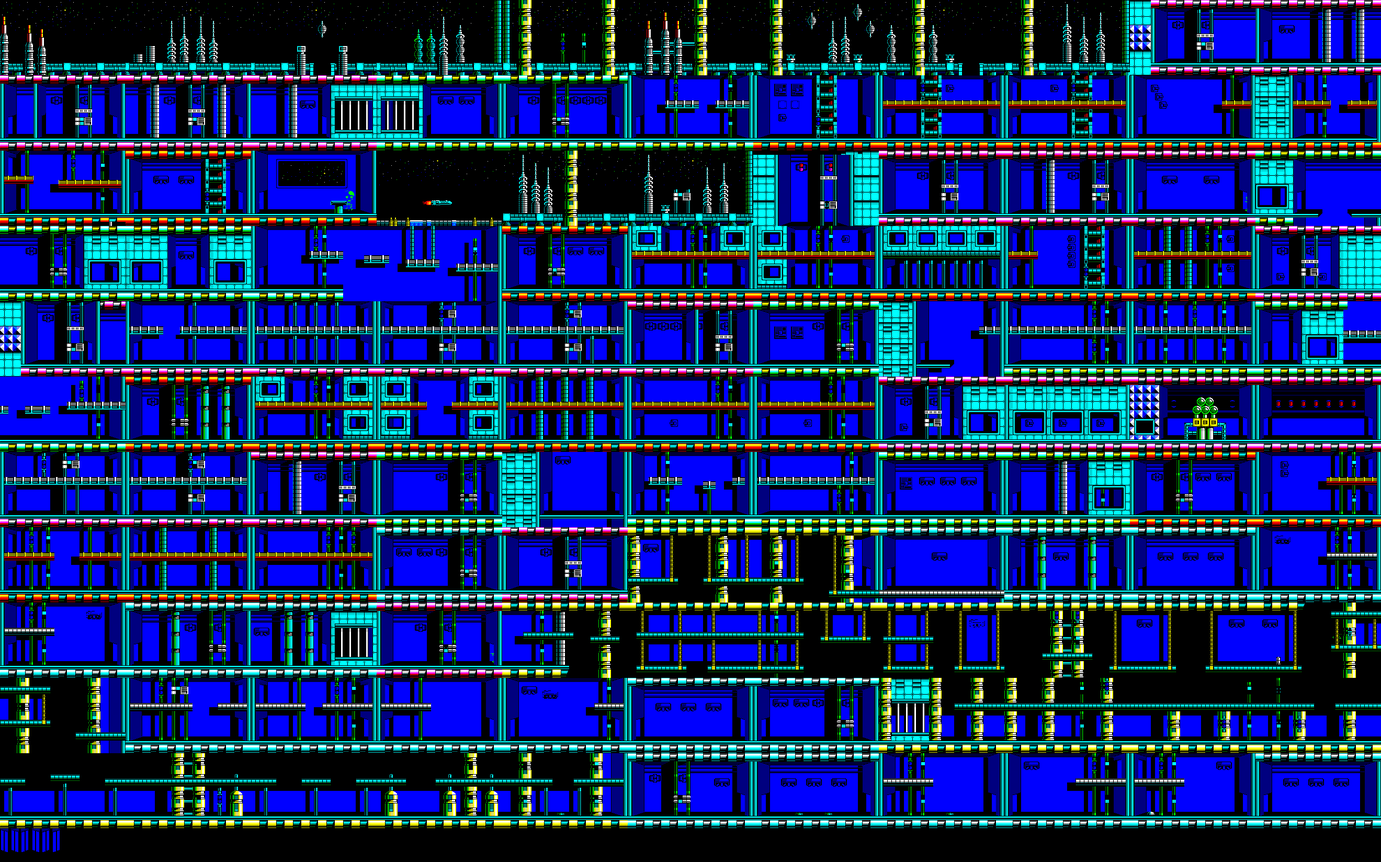
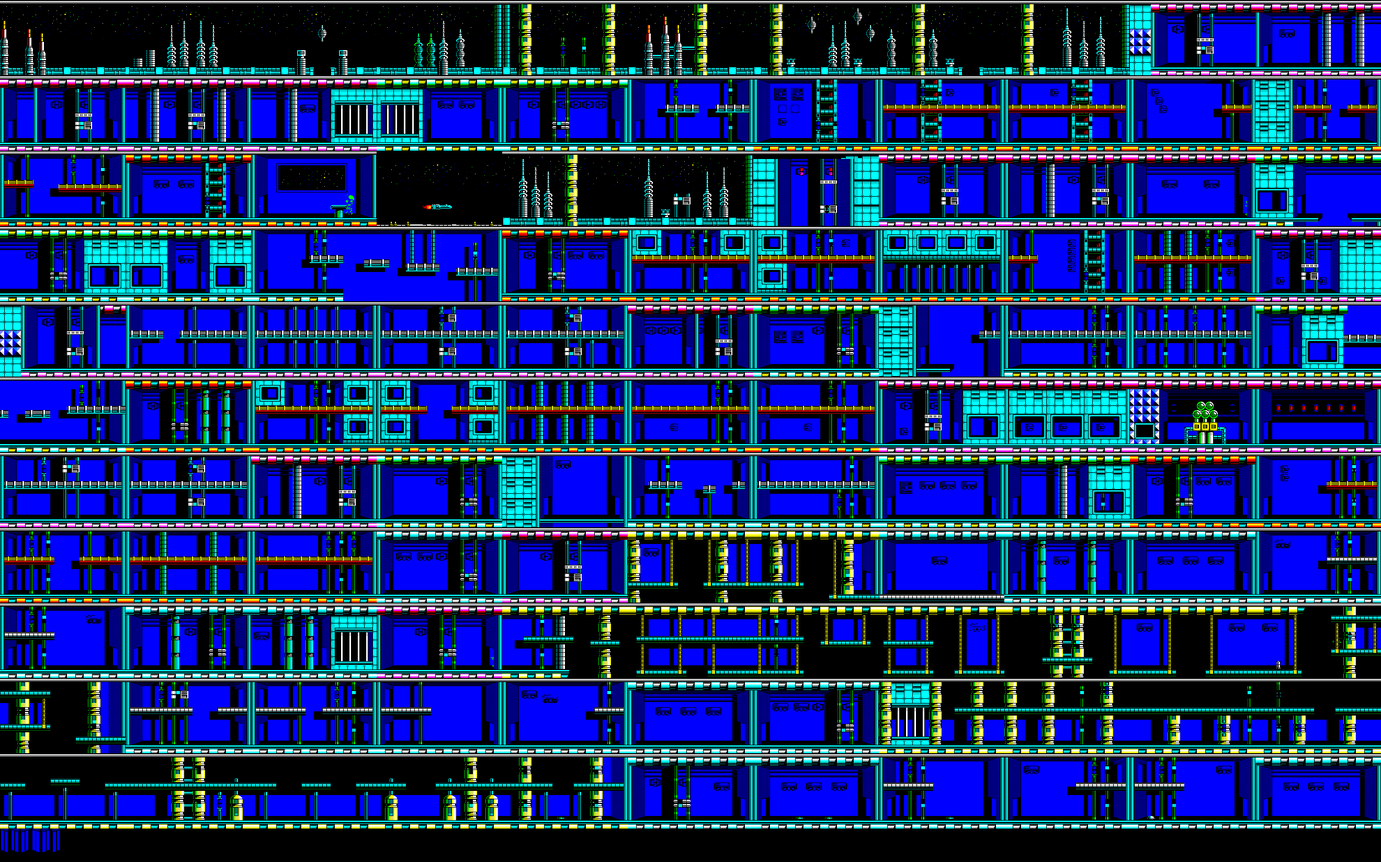
Everyone up on the floor course; guards take the lifts and come in properly
The backdrops are cut from the original's rows 0-17, not 1-18, so its
floor courses meet the level's floors: Dan, the guards and the guns stand
on the black course above the floor line, as in the original, instead of
a row below it. The guns' boxes follow.

Some guards use the grav-lifts: on another floor of Dan's room, one heads
for a lift on his own floor that stops at Dan's and rides it; giving chase
when Dan rides out, he follows him onto the lift and arrives behind him in
the next room. An arriving guard now comes fully in and a cell clear of
the wall before he can take aim, rather than firing from the doorway.

Claude-Session: https://claude.ai/code/session_01PcLjzQEJdDPtSgQwu11ALc

Changed region(s): [[0.0, 0.0, 1.0, 0.9593], [0.7144, 0.0, 0.7765, 0.0309]]

diff --git a/js/rooms_sheet.js b/js/rooms_sheet.js
@@ -1,2 +1,2 @@
 // generated by tools/make_rooms.py: where each room's backdrop lies in assets/rooms.png
-window.ROOMS_SHEET = {"image": "assets/rooms.png", "w": 240, "h": 144, "rooms": {"14": [0, 0], "15": [240, 0], "16": [480, 0], "17": [720, 0], "24": [960, 0], "25": [1200, 0], "26": [1440, 0], "27": [1680, 0], "28": [1920, 0], "46": [2160, 0], "47": [2400, 0], "48": [0, 144], "49": [240, 144], "50": [480, 144], "53": [720, 144], "54": [960, 144], "55": [1200, 144], "56": [1440, 144], "57": [1680, 144], "58": [1920, 144], "59": [2160, 144], "60": [2400, 144], "61": [0, 288], "62": [240, 288], "63": [480, 288], "75": [720, 288], "76": [960, 288], "77": [1200, 288], "78": [1440, 288], "81": [1680, 288], "83": [1920, 288], "84": [2160, 288], "85": [2400, 288], "86": [0, 432], "87": [240, 432], "88": [480, 432], "89": [720, 432], "90": [960, 432], "91": [1200, 432], "92": [1440, 432], "93": [1680, 432], "94": [1920, 432], "95": [2160, 432], "109": [2400, 432], "110": [0, 576], "111": [240, 576], "112": [480, 576], "113": [720, 576], "114": [960, 576], "115": [1200, 576], "116": [1440, 576], "117": [1680, 576], "118": [1920, 576], "119": [2160, 576], "120": [2400, 576], "121": [0, 720], "122": [240, 720], "123": [480, 720], "124": [720, 720], "125": [960, 720], "126": [1200, 720], "127": [1440, 720], "141": [1680, 720], "142": [1920, 720], "143": [2160, 720], "144": [2400, 720], "145": [0, 864], "146": [240, 864], "147": [480, 864], "148": [720, 864], "149": [960, 864], "150": [1200, 864], "151": [1440, 864], "152": [1680, 864], "153": [1920, 864], "154": [2160, 864], "155": [2400, 864], "156": [0, 1008], "157": [240, 1008], "158": [480, 1008], "159": [720, 1008], "177": [960, 1008], "184": [1200, 1008], "185": [1440, 1008], "186": [1680, 1008], "187": [1920, 1008], "188": [2160, 1008], "189": [2400, 1008], "190": [0, 1152], "191": [240, 1152], "192": [480, 1152], "209": [720, 1152], "210": [960, 1152], "211": [1200, 1152], "212": [1440, 1152], "213": [1680, 1152], "214": [1920, 1152], "215": [2160, 1152], "216": [2400, 1152], "217": [0, 1296], "218": [240, 1296], "219": [480, 1296], "220": [720, 1296], "221": [960, 1296], "222": [1200, 1296], "223": [1440, 1296], "241": [1680, 1296], "242": [1920, 1296], "243": [2160, 1296], "244": [2400, 1296], "245": [0, 1440], "246": [240, 1440], "247": [480, 1440], "248": [720, 1440], "249": [960, 1440], "250": [1200, 1440], "251": [1440, 1440], "252": [1680, 1440], "253": [1920, 1440], "254": [2160, 1440], "255": [2400, 1440]}, "doors": {"84:right": [0, 1584, 16, 48, 208, 72], "209:right": [20, 1584, 16, 48, 208, 72], "159:left": [40, 1584, 16, 48, 16, 72], "185:right": [60, 1584, 16, 48, 216, 72], "143:left": [80, 1584, 16, 48, 0, 72], "142:left": [100, 1584, 16, 48, 0, 72]}, "guns": {"47": [[0, 40, 48, 40, "#0000ff"]], "50": [[0, 88, 48, 40, "#000000"]], "53": [[0, 112, 40, 40, "#0000ff"], [0, 152, 40, 40, "#0000ff"]], "56": [[2, 48, 72, 16, "#0000ff"]], "57": [[2, 128, 16, 16, "#0000ff"]], "58": [[2, 88, 16, 16, "#0000ff"]], "59": [[2, 40, 16, 16, "#0000ff"], [2, 48, 32, 16, "#0000ff"], [2, 56, 48, 16, "#0000ff"]], "62": [[0, 96, 48, 40, "#0000ff"], [0, 48, 48, 40, "#0000ff"]], "84": [[0, 56, 48, 40, "#0000ff"], [0, 136, 48, 40, "#0000ff"]], "87": [[0, 96, 48, 40, "#000000"]], "90": [[0, 120, 40, 40, "#000000"], [0, 160, 40, 40, "#0000ff"]], "92": [[1, 168, 16, 16, "#0000ff"], [1, 168, 80, 16, "#0000ff"]], "94": [[1, 120, 16, 16, "#0000ff"], [1, 120, 32, 16, "#0000ff"], [1, 120, 48, 16, "#0000ff"], [1, 120, 64, 16, "#0000ff"]], "95": [[1, 184, 16, 16, "#0000ff"], [1, 184, 72, 16, "#0000ff"]], "109": [[2, 40, 88, 16, "#0000ff"], [1, 120, 88, 16, "#000000"]], "118": [[3, 40, 112, 16, null]], "121": [[3, 104, 112, 16, null]], "126": [[1, 80, 80, 16, "#0000ff"]], "127": [[1, 96, 80, 16, "#0000ff"]], "141": [[2, 40, 88, 16, "#0000ff"]], "142": [[2, 40, 80, 16, "#0000ff"], [2, 104, 80, 16, "#0000ff"], [2, 176, 80, 16, "#0000ff"]], "149": [[0, 96, 8, 40, "#000000"]], "151": [[3, 40, 112, 16, null]], "152": [[0, 72, 48, 40, "#0000ff"], [0, 112, 48, 40, "#0000ff"], [0, 152, 48, 40, "#0000ff"], [3, 80, 112, 16, null], [3, 160, 112, 16, null]], "153": [[3, 72, 112, 16, null]], "154": [[0, 120, 40, 40, "#000000"], [0, 160, 40, 40, "#0000ff"]], "155": [[2, 48, 16, 16, "#0000ff"], [2, 48, 32, 16, "#0000ff"]], "156": [[3, 120, 112, 16, null]], "157": [[1, 112, 16, 16, "#0000ff"], [3, 112, 112, 16, null]], "158": [[2, 80, 16, 16, "#0000ff"], [3, 80, 112, 16, null]], "159": [[0, 72, 40, 40, "#0000ff"], [0, 32, 40, 40, "#000000"]], "184": [[0, 24, 32, 40, "#ffff00"]], "186": [[0, 96, 48, 40, "#0000ff"], [3, 72, 112, 16, null], [3, 144, 112, 16, null]], "187": [[0, 88, 48, 40, "#0000ff"]], "188": [[0, 48, 48, 40, "#0000ff"], [0, 96, 48, 40, "#0000ff"], [0, 144, 48, 40, "#0000ff"], [3, 64, 112, 16, null], [3, 152, 112, 16, null]], "189": [[0, 32, 16, 40, "#000000"], [3, 96, 112, 16, null]], "190": [[0, 160, 16, 40, "#0000ff"], [3, 128, 112, 16, null]], "192": [[0, 0, 48, 40, "#000000"]], "215": [[0, 8, 32, 40, "#0000ff"], [0, 184, 32, 40, "#0000ff"]], "216": [[0, 8, 32, 40, "#0000ff"]], "221": [[0, 32, 16, 40, "#000000"], [0, 72, 24, 40, "#0000ff"]], "222": [[0, 48, 48, 40, "#0000ff"], [0, 96, 48, 40, "#0000ff"], [0, 144, 48, 40, "#0000ff"]], "223": [[0, 72, 40, 40, "#0000ff"], [0, 32, 40, 40, "#000000"]], "241": [[3, 144, 112, 16, null]], "242": [[3, 40, 112, 16, null]], "244": [[3, 120, 112, 16, null]], "250": [[0, 160, 48, 40, "#0000ff"]], "251": [[0, 48, 48, 40, "#0000ff"], [0, 96, 48, 40, "#0000ff"], [0, 144, 48, 40, "#0000ff"]], "253": [[0, 32, 16, 40, "#000000"], [3, 96, 112, 16, null]], "254": [[0, 160, 16, 40, "#0000ff"], [3, 128, 112, 16, null]], "255": [[0, 48, 48, 40, "#0000ff"], [0, 96, 48, 40, "#0000ff"], [0, 144, 48, 40, "#0000ff"]]}, "arrows": {"24": [[152, 88, "down", 5]], "46": [[136, 88, "down", 5]], "49": [[128, 88, "down", 5]], "54": [[104, 88, "down", 5]], "55": [[192, 24, "down", 5], [192, 80, "up", 69]], "56": [[152, 80, "up", 69]], "57": [[112, 24, "down", 5], [112, 80, "up", 69]], "58": [[160, 24, "down", 5], [160, 80, "up", 69]], "60": [[128, 24, "down", 5], [128, 80, "up", 69]], "61": [[192, 32, "down", 5], [192, 80, "up", 69]], "62": [[184, 88, "down", 5]], "77": [[96, 88, "down", 5]], "78": [[136, 96, "up", 69], [136, 104, "down", 5]], "81": [[128, 80, "up", 69], [128, 88, "down", 5]], "83": [[176, 88, "down", 5]], "86": [[104, 80, "up", 69]], "88": [[136, 24, "down", 5], [136, 80, "up", 69]], "89": [[184, 48, "down", 5]], "90": [[96, 88, "down", 5]], "91": [[144, 24, "down", 5], [144, 80, "up", 69]], "92": [[144, 24, "down", 5], [144, 80, "up", 69]], "94": [[184, 80, "up", 69]], "95": [[168, 24, "down", 5], [168, 80, "up", 69]], "109": [[96, 80, "up", 69], [96, 88, "down", 5]], "110": [[136, 80, "up", 69]], "113": [[128, 16, "up", 69], [128, 24, "down", 5], [128, 80, "up", 69]], "114": [[128, 24, "down", 5], [128, 80, "up", 69]], "115": [[176, 80, "up", 69], [176, 88, "down", 5]], "116": [[168, 88, "down", 5]], "118": [[192, 24, "down", 5], [192, 80, "up", 69]], "119": [[64, 24, "down", 5], [176, 24, "down", 5], [64, 80, "up", 69], [176, 80, "up", 69]], "121": [[184, 16, "up", 69], [184, 24, "down", 5], [184, 80, "up", 69]], "122": [[96, 80, "up", 69], [96, 88, "down", 5]], "123": [[144, 24, "down", 5], [144, 80, "up", 69]], "126": [[192, 24, "down", 5], [192, 80, "up", 69]], "127": [[168, 16, "up", 69], [168, 24, "down", 5], [168, 80, "up", 69]], "141": [[96, 80, "up", 69]], "145": [[128, 24, "down", 5]], "146": [[128, 24, "down", 5], [128, 80, "up", 69]], "147": [[176, 80, "up", 69]], "148": [[168, 80, "up", 69]], "150": [[72, 24, "down", 5], [72, 80, "up", 69]], "151": [[184, 24, "down", 5], [184, 80, "up", 69]], "153": [[184, 80, "up", 69]], "154": [[96, 80, "up", 69]], "155": [[184, 24, "down", 5], [184, 80, "up", 69]], "156": [[88, 24, "down", 5], [88, 80, "up", 69]], "158": [[168, 24, "down", 5], [168, 80, "up", 69]], "159": [[168, 88, "down", 5]], "177": [[128, 80, "up", 69], [128, 88, "down", 5]], "184": [[176, 72, "down", 5]], "185": [[40, 72, "down", 5], [176, 88, "down", 5]], "189": [[176, 24, "down", 5], [176, 80, "up", 69]], "190": [[80, 24, "down", 5], [80, 80, "up", 69]], "191": [[168, 80, "up", 69], [168, 88, "down", 5]], "209": [[128, 80, "up", 69]], "210": [[72, 32, "down", 5], [72, 80, "up", 69]], "212": [[40, 32, "down", 5], [40, 80, "up", 69], [40, 88, "down", 5]], "214": [[136, 72, "down", 5]], "216": [[176, 48, "up", 69], [176, 56, "down", 5]], "217": [[40, 48, "up", 69], [40, 56, "down", 5], [176, 80, "down", 5]], "218": [[96, 24, "down", 5]], "219": [[192, 24, "down", 5], [192, 80, "up", 69]], "221": [[200, 24, "down", 5], [200, 80, "up", 69]], "223": [[168, 80, "up", 69]], "242": [[144, 24, "down", 5], [144, 80, "up", 69]], "243": [[224, 24, "down", 5], [224, 80, "up", 69]], "244": [[40, 16, "up", 69], [40, 24, "down", 5], [40, 80, "up", 69]], "246": [[136, 16, "up", 69], [136, 24, "down", 5], [136, 80, "up", 69]], "248": [[176, 16, "up", 69], [176, 24, "down", 5], [176, 80, "up", 69]], "249": [[40, 16, "up", 69], [40, 24, "down", 5], [176, 24, "down", 5], [40, 80, "up", 69], [176, 80, "up", 69]], "250": [[96, 80, "up", 69]], "252": [[80, 24, "down", 5], [80, 80, "up", 69]], "253": [[192, 24, "down", 5], [192, 80, "up", 69]], "254": [[80, 24, "down", 5], [80, 80, "up", 69]]}, "arrow": [0, 127, 65, 65, 99, 119, 127, 0]};
+window.ROOMS_SHEET = {"image": "assets/rooms.png", "w": 240, "h": 144, "rooms": {"14": [0, 0], "15": [240, 0], "16": [480, 0], "17": [720, 0], "24": [960, 0], "25": [1200, 0], "26": [1440, 0], "27": [1680, 0], "28": [1920, 0], "46": [2160, 0], "47": [2400, 0], "48": [0, 144], "49": [240, 144], "50": [480, 144], "53": [720, 144], "54": [960, 144], "55": [1200, 144], "56": [1440, 144], "57": [1680, 144], "58": [1920, 144], "59": [2160, 144], "60": [2400, 144], "61": [0, 288], "62": [240, 288], "63": [480, 288], "75": [720, 288], "76": [960, 288], "77": [1200, 288], "78": [1440, 288], "81": [1680, 288], "83": [1920, 288], "84": [2160, 288], "85": [2400, 288], "86": [0, 432], "87": [240, 432], "88": [480, 432], "89": [720, 432], "90": [960, 432], "91": [1200, 432], "92": [1440, 432], "93": [1680, 432], "94": [1920, 432], "95": [2160, 432], "109": [2400, 432], "110": [0, 576], "111": [240, 576], "112": [480, 576], "113": [720, 576], "114": [960, 576], "115": [1200, 576], "116": [1440, 576], "117": [1680, 576], "118": [1920, 576], "119": [2160, 576], "120": [2400, 576], "121": [0, 720], "122": [240, 720], "123": [480, 720], "124": [720, 720], "125": [960, 720], "126": [1200, 720], "127": [1440, 720], "141": [1680, 720], "142": [1920, 720], "143": [2160, 720], "144": [2400, 720], "145": [0, 864], "146": [240, 864], "147": [480, 864], "148": [720, 864], "149": [960, 864], "150": [1200, 864], "151": [1440, 864], "152": [1680, 864], "153": [1920, 864], "154": [2160, 864], "155": [2400, 864], "156": [0, 1008], "157": [240, 1008], "158": [480, 1008], "159": [720, 1008], "177": [960, 1008], "184": [1200, 1008], "185": [1440, 1008], "186": [1680, 1008], "187": [1920, 1008], "188": [2160, 1008], "189": [2400, 1008], "190": [0, 1152], "191": [240, 1152], "192": [480, 1152], "209": [720, 1152], "210": [960, 1152], "211": [1200, 1152], "212": [1440, 1152], "213": [1680, 1152], "214": [1920, 1152], "215": [2160, 1152], "216": [2400, 1152], "217": [0, 1296], "218": [240, 1296], "219": [480, 1296], "220": [720, 1296], "221": [960, 1296], "222": [1200, 1296], "223": [1440, 1296], "241": [1680, 1296], "242": [1920, 1296], "243": [2160, 1296], "244": [2400, 1296], "245": [0, 1440], "246": [240, 1440], "247": [480, 1440], "248": [720, 1440], "249": [960, 1440], "250": [1200, 1440], "251": [1440, 1440], "252": [1680, 1440], "253": [1920, 1440], "254": [2160, 1440], "255": [2400, 1440]}, "doors": {"84:right": [0, 1584, 16, 48, 208, 80], "209:right": [20, 1584, 16, 48, 208, 80], "159:left": [40, 1584, 16, 48, 16, 80], "185:right": [60, 1584, 16, 48, 216, 80], "143:left": [80, 1584, 16, 48, 0, 80], "142:left": [100, 1584, 16, 48, 0, 80]}, "guns": {"47": [[0, 40, 56, 40, "#0000ff"]], "50": [[0, 88, 56, 40, "#000000"]], "53": [[0, 112, 48, 40, "#0000ff"], [0, 152, 48, 40, "#0000ff"]], "56": [[2, 48, 80, 16, "#0000ff"]], "57": [[2, 128, 24, 16, "#0000ff"]], "58": [[2, 88, 24, 16, "#0000ff"]], "59": [[2, 40, 24, 16, "#0000ff"], [2, 48, 40, 16, "#0000ff"], [2, 56, 56, 16, "#0000ff"]], "62": [[0, 96, 56, 40, "#0000ff"], [0, 48, 56, 40, "#0000ff"]], "84": [[0, 56, 56, 40, "#0000ff"], [0, 136, 56, 40, "#0000ff"]], "87": [[0, 96, 56, 40, "#000000"]], "90": [[0, 120, 48, 40, "#000000"], [0, 160, 48, 40, "#0000ff"]], "92": [[1, 168, 24, 16, "#0000ff"], [1, 168, 88, 16, "#0000ff"]], "94": [[1, 120, 24, 16, "#0000ff"], [1, 120, 40, 16, "#0000ff"], [1, 120, 56, 16, "#0000ff"], [1, 120, 72, 16, "#0000ff"]], "95": [[1, 184, 24, 16, "#0000ff"], [1, 184, 80, 16, "#0000ff"]], "109": [[2, 40, 96, 16, "#0000ff"], [1, 120, 96, 16, "#000000"]], "118": [[3, 40, 120, 16, null]], "121": [[3, 104, 120, 16, null]], "126": [[1, 80, 88, 16, "#0000ff"]], "127": [[1, 96, 88, 16, "#0000ff"]], "141": [[2, 40, 96, 16, "#0000ff"]], "142": [[2, 40, 88, 16, "#0000ff"], [2, 104, 88, 16, "#0000ff"], [2, 176, 88, 16, "#0000ff"]], "149": [[0, 96, 16, 40, "#000000"]], "151": [[3, 40, 120, 16, null]], "152": [[0, 72, 56, 40, "#0000ff"], [0, 112, 56, 40, "#0000ff"], [0, 152, 56, 40, "#0000ff"], [3, 80, 120, 16, null], [3, 160, 120, 16, null]], "153": [[3, 72, 120, 16, null]], "154": [[0, 120, 48, 40, "#000000"], [0, 160, 48, 40, "#0000ff"]], "155": [[2, 48, 24, 16, "#0000ff"], [2, 48, 40, 16, "#0000ff"]], "156": [[3, 120, 120, 16, null]], "157": [[1, 112, 24, 16, "#0000ff"], [3, 112, 120, 16, null]], "158": [[2, 80, 24, 16, "#0000ff"], [3, 80, 120, 16, null]], "159": [[0, 72, 48, 40, "#0000ff"], [0, 32, 48, 40, "#000000"]], "184": [[0, 24, 40, 40, "#ffff00"]], "186": [[0, 96, 56, 40, "#0000ff"], [3, 72, 120, 16, null], [3, 144, 120, 16, null]], "187": [[0, 88, 56, 40, "#0000ff"]], "188": [[0, 48, 56, 40, "#0000ff"], [0, 96, 56, 40, "#0000ff"], [0, 144, 56, 40, "#0000ff"], [3, 64, 120, 16, null], [3, 152, 120, 16, null]], "189": [[0, 32, 24, 40, "#000000"], [3, 96, 120, 16, null]], "190": [[0, 160, 24, 40, "#0000ff"], [3, 128, 120, 16, null]], "192": [[0, 0, 56, 40, "#000000"]], "215": [[0, 8, 40, 40, "#0000ff"], [0, 184, 40, 40, "#0000ff"]], "216": [[0, 8, 40, 40, "#0000ff"]], "221": [[0, 32, 24, 40, "#000000"], [0, 72, 32, 40, "#0000ff"]], "222": [[0, 48, 56, 40, "#0000ff"], [0, 96, 56, 40, "#0000ff"], [0, 144, 56, 40, "#0000ff"]], "223": [[0, 72, 48, 40, "#0000ff"], [0, 32, 48, 40, "#000000"]], "241": [[3, 144, 120, 16, null]], "242": [[3, 40, 120, 16, null]], "244": [[3, 120, 120, 16, null]], "250": [[0, 160, 56, 40, "#0000ff"]], "251": [[0, 48, 56, 40, "#0000ff"], [0, 96, 56, 40, "#0000ff"], [0, 144, 56, 40, "#0000ff"]], "253": [[0, 32, 24, 40, "#000000"], [3, 96, 120, 16, null]], "254": [[0, 160, 24, 40, "#0000ff"], [3, 128, 120, 16, null]], "255": [[0, 48, 56, 40, "#0000ff"], [0, 96, 56, 40, "#0000ff"], [0, 144, 56, 40, "#0000ff"]]}, "arrows": {"24": [[152, 96, "down", 5]], "46": [[136, 96, "down", 5]], "49": [[128, 96, "down", 5]], "54": [[104, 96, "down", 5]], "55": [[192, 32, "down", 5], [192, 88, "up", 69]], "56": [[152, 88, "up", 69]], "57": [[112, 32, "down", 5], [112, 88, "up", 69]], "58": [[160, 32, "down", 5], [160, 88, "up", 69]], "60": [[128, 32, "down", 5], [128, 88, "up", 69]], "61": [[192, 40, "down", 5], [192, 88, "up", 69]], "62": [[184, 96, "down", 5]], "77": [[96, 96, "down", 5]], "78": [[136, 104, "up", 69], [136, 112, "down", 5]], "81": [[128, 88, "up", 69], [128, 96, "down", 5]], "83": [[176, 96, "down", 5]], "86": [[104, 88, "up", 69]], "88": [[136, 32, "down", 5], [136, 88, "up", 69]], "89": [[184, 56, "down", 5]], "90": [[96, 96, "down", 5]], "91": [[144, 32, "down", 5], [144, 88, "up", 69]], "92": [[144, 32, "down", 5], [144, 88, "up", 69]], "94": [[184, 88, "up", 69]], "95": [[168, 32, "down", 5], [168, 88, "up", 69]], "109": [[96, 88, "up", 69], [96, 96, "down", 5]], "110": [[136, 88, "up", 69]], "113": [[128, 24, "up", 69], [128, 32, "down", 5], [128, 88, "up", 69]], "114": [[128, 32, "down", 5], [128, 88, "up", 69]], "115": [[176, 88, "up", 69], [176, 96, "down", 5]], "116": [[168, 96, "down", 5]], "118": [[192, 32, "down", 5], [192, 88, "up", 69]], "119": [[64, 32, "down", 5], [176, 32, "down", 5], [64, 88, "up", 69], [176, 88, "up", 69]], "121": [[184, 24, "up", 69], [184, 32, "down", 5], [184, 88, "up", 69]], "122": [[96, 88, "up", 69], [96, 96, "down", 5]], "123": [[144, 32, "down", 5], [144, 88, "up", 69]], "126": [[192, 32, "down", 5], [192, 88, "up", 69]], "127": [[168, 24, "up", 69], [168, 32, "down", 5], [168, 88, "up", 69]], "141": [[96, 88, "up", 69]], "145": [[128, 32, "down", 5]], "146": [[128, 32, "down", 5], [128, 88, "up", 69]], "147": [[176, 88, "up", 69]], "148": [[168, 88, "up", 69]], "150": [[72, 32, "down", 5], [72, 88, "up", 69]], "151": [[184, 32, "down", 5], [184, 88, "up", 69]], "153": [[184, 88, "up", 69]], "154": [[96, 88, "up", 69]], "155": [[184, 32, "down", 5], [184, 88, "up", 69]], "156": [[88, 32, "down", 5], [88, 88, "up", 69]], "158": [[168, 32, "down", 5], [168, 88, "up", 69]], "159": [[168, 96, "down", 5]], "177": [[128, 88, "up", 69], [128, 96, "down", 5]], "184": [[176, 80, "down", 5]], "185": [[40, 80, "down", 5], [176, 96, "down", 5]], "189": [[176, 32, "down", 5], [176, 88, "up", 69]], "190": [[80, 32, "down", 5], [80, 88, "up", 69]], "191": [[168, 88, "up", 69], [168, 96, "down", 5]], "209": [[128, 88, "up", 69]], "210": [[72, 40, "down", 5], [72, 88, "up", 69]], "212": [[40, 40, "down", 5], [40, 88, "up", 69], [40, 96, "down", 5]], "214": [[136, 80, "down", 5]], "216": [[176, 56, "up", 69], [176, 64, "down", 5]], "217": [[40, 56, "up", 69], [40, 64, "down", 5], [176, 88, "down", 5]], "218": [[96, 32, "down", 5]], "219": [[192, 32, "down", 5], [192, 88, "up", 69]], "221": [[200, 32, "down", 5], [200, 88, "up", 69]], "223": [[168, 88, "up", 69]], "242": [[144, 32, "down", 5], [144, 88, "up", 69]], "243": [[224, 32, "down", 5], [224, 88, "up", 69]], "244": [[40, 24, "up", 69], [40, 32, "down", 5], [40, 88, "up", 69]], "246": [[136, 24, "up", 69], [136, 32, "down", 5], [136, 88, "up", 69]], "248": [[176, 24, "up", 69], [176, 32, "down", 5], [176, 88, "up", 69]], "249": [[40, 24, "up", 69], [40, 32, "down", 5], [176, 32, "down", 5], [40, 88, "up", 69], [176, 88, "up", 69]], "250": [[96, 88, "up", 69]], "252": [[80, 32, "down", 5], [80, 88, "up", 69]], "253": [[192, 32, "down", 5], [192, 88, "up", 69]], "254": [[80, 32, "down", 5], [80, 88, "up", 69]]}, "arrow": [0, 127, 65, 65, 99, 119, 127, 0]};

diff --git a/js/game.js b/js/game.js
@@ -190,6 +190,9 @@ const PRISONS = placePrisons();
  *  to a few cells and pauses before he fires. The fourth sector is unguarded,
  *  as in the original. */
 const TREEN_MAX = 2, TREEN_AGAIN = [1.5, 5];  // seconds before the next one runs in: soon enough to be met on the way through
+const TREEN_CLEAR = 8;           // pixels an arriving guard walks in from the wall before he takes aim
+const TREEN_LIFT_CHANCE = 0.6;   // the share of guards who take the grav-lifts after Dan
+const TREEN_CHASE = 3;           // seconds a guard counts as giving chase after he last had Dan in range
 const TREEN_RUN = 60, TREEN_REACT = 0.6;      // pixels a second; the pause before he fires
 function unguardedRoom(key, room) { return (room.label || room.zone) === 4; }
 // where none is about when Dan walks in, and they only run in after him:
@@ -209,7 +212,7 @@ function makeTreens(key, room) {
     const x = x0 + r() * (x1 - x0);
     if (Math.abs(x - dan.x) < 48 && Math.abs(p.y * 8 - TREEN_H - dan.y) < 24) continue;   // never on top of him
     if (out.some((t) => Math.abs(t.x - x) < 28 && Math.abs(t.y - (p.y * 8 - TREEN_H)) < 8)) continue;
-    out.push({ id: state.treenSeq++, x, y: p.y * 8 - TREEN_H, x0, x1, dir: r() < 0.5 ? -1 : 1, anim: 0, dead: false, react: 0 });
+    out.push({ id: state.treenSeq++, x, y: p.y * 8 - TREEN_H, x0, x1, dir: r() < 0.5 ? -1 : 1, anim: 0, dead: false, react: 0, lifts: r() < TREEN_LIFT_CHANCE });
   }
   return out;
 }
@@ -231,8 +234,54 @@ function spawnTreen(key, room) {
   if (!side) return;
   // he starts beyond the edge and runs in through the doorway, not from a cell inside it
   const x = side === "right" ? VIEW_W : -TREEN_W;
-  treens.push({ id: state.treenSeq++, x, y: p.y * 8 - TREEN_H, x0, x1, dir: dan.x > x ? 1 : -1, anim: 0, dead: false, react: 0, entering: true });
+  treens.push({ id: state.treenSeq++, x, y: p.y * 8 - TREEN_H, x0, x1, dir: dan.x > x ? 1 : -1, anim: 0, dead: false, react: 0, entering: true, lifts: Math.random() < TREEN_LIFT_CHANCE });
   if (!state.alerted.has(key)) { state.alerted.add(key); say(tx(["INTRUDER ALERT !"]), 2.5); }
+}
+
+/** A guard who uses the lifts: Dan on another floor of this room, and a lift
+ *  on the guard's floor that stops at Dan's, and he heads for it; Dan riding
+ *  out of the room while the guard is giving chase, and he follows him onto
+ *  it, to arrive behind him in the next room. */
+function treenSeeksLift(t, key, room) {
+  const feet = t.y + TREEN_H;
+  const onHisFloor = (l) => l.feet != null && Math.abs(l.feet - feet) <= 14 &&
+                            l.x0 * 8 >= t.x0 - 8 && (l.x1 + 1) * 8 <= t.x1 + TREEN_W + 8;   // its cells on his beat
+  let link = null;
+  if (dan.onLift && dan.onLift.link && t.chase > 0 && onHisFloor(dan.onLift.link)) link = dan.onLift.link;   // after him
+  else if (dan.onGround) {
+    const danFeet = dan.y + DAN_H;
+    if (Math.abs(danFeet - feet) >= 12) link = EXITS[key].lifts.find((l) => l.to === key && l.stop != null && onHisFloor(l) && Math.abs(l.stop - danFeet) <= 14) || null;
+  }
+  if (!link) return;
+  t.lift = { link, x: ((link.x0 + link.x1 + 1) / 2) * 8 - TREEN_W / 2, wait: 0.3 + Math.random() * 1.2 };
+}
+function treenToLift(t, dt) {
+  const dx = t.lift.x - t.x;
+  t.fire = false;
+  if (Math.abs(dx) > 2) { t.dir = dx > 0 ? 1 : -1; t.x += t.dir * TREEN_RUN * dt; t.anim += dt * 9; return; }
+  t.lift.wait -= dt;                                  // a moment on the cells before the field takes him
+  if (t.lift.wait > 0) return;
+  const l = t.lift.link;
+  t.riding = { dir: l.kind === "down" ? 1 : -1, stop: l.stop, out: l.to !== state.room, to: l.to };
+  t.lift = null;
+}
+function rideTreen(t, dt, room) {
+  const r = t.riding;
+  t.fire = false;
+  t.y += r.dir * LIFT_SPEED * dt;
+  const feet = t.y + TREEN_H;
+  if (r.out) {
+    // off the screen after Dan: he arrives in the next room when Dan does
+    if (t.y + TREEN_H < 0 || t.y > VIEW_H) { t.dead = true; t.gone = true; state.pursuer = { room: r.to, x: t.x, dir: r.dir, stop: r.stop }; }
+    return;
+  }
+  if ((r.dir > 0 && feet >= r.stop) || (r.dir < 0 && feet <= r.stop)) {
+    t.y = r.stop - TREEN_H;
+    const p = platformsOf(room).find((p) => Math.abs(p.y - r.stop) <= 14 && t.x + TREEN_W > p.x0 - 8 && t.x < p.x1 + 8);
+    if (p) { t.x0 = p.x0; t.x1 = p.x1 - TREEN_W; }
+    t.riding = null;
+    t.dir = dan.x > t.x ? 1 : -1;
+  }
 }
 
 function widestPlatformOf(room) {
@@ -274,6 +323,7 @@ const state = {
   treenClock: 0, treenNext: 0,   // the next arrival
   deadTreens: new Map(),   // room -> which of its guards have been shot
   deadGuns: new Set(),     // the guns crushed or shot this game, by room and index
+  pursuer: null,           // a guard riding the lift after Dan into the next room
   invert: 0,               // the screen inverted after a gun is shot, seconds left
   burst: 0,              // lift-transfer flash, seconds left
   flash: 0,              // the room's colours cycling after a guard is shot, seconds left
@@ -298,6 +348,9 @@ function resetDan(x, y) {
 }
 
 function enterRoom(key, x, y) {
+  // a guard riding the lift out after Dan is still on his way when Dan arrives
+  const chaser = treens.find((t) => !t.dead && t.riding && t.riding.out && t.riding.to === key);
+  if (chaser) state.pursuer = { room: key, x: chaser.x, dir: chaser.riding.dir, stop: chaser.riding.stop };
   state.room = key;
   // the original ends the game the moment Dan steps into the launch bay -
   // "DAN AND DIGBY MAKE A GETAWAY!" - which lies behind the last gate
@@ -308,6 +361,13 @@ function enterRoom(key, x, y) {
   state.treenNext = TREEN_AGAIN[0] + Math.random() * (TREEN_AGAIN[1] - TREEN_AGAIN[0]);
   if (treens.length && !state.alerted.has(key)) { state.alerted.add(key); say(tx(["INTRUDER ALERT !"]), 2.5); }
   pickups = makePickups(key, room);
+  // a guard who took the lift after Dan rides in behind him
+  if (state.pursuer && state.pursuer.room === key) {
+    const q = state.pursuer;
+    treens.push({ id: state.treenSeq++, x: q.x, y: q.dir > 0 ? -TREEN_H : VIEW_H, x0: 0, x1: VIEW_W - TREEN_W, dir: 1, anim: 0, dead: false, react: 0,
+                  lifts: true, riding: { dir: q.dir, stop: q.stop, out: false } });
+  }
+  state.pursuer = null;
   guns = makeGuns(key);
   gunShots = [];
   lasers = [];
@@ -688,9 +748,13 @@ function updateTreens(dt) {
   for (const t of treens) {
     if (t.dying > 0) { t.dying -= dt; if (t.dying <= 0) beeperBurst("treenGone"); }   // his last moment after the shot that got him
     if (t.dead) continue;
+    if (t.riding) { rideTreen(t, dt, room); continue; }
+    if (t.lift) { treenToLift(t, dt); continue; }
     const level = Math.abs((t.y + TREEN_H) - (dan.y + DAN_H)) < 12;
     const dx = (dan.x + DAN_W / 2) - (t.x + TREEN_W / 2);
-    const inRange = level && Math.abs(dx) <= TREEN_FIRE_RANGE && dan.stun <= 0;
+    const inRange = level && Math.abs(dx) <= TREEN_FIRE_RANGE && dan.stun <= 0 && !t.entering;   // not from the doorway
+    if (inRange) t.chase = TREEN_CHASE; else if (t.chase > 0) t.chase -= dt;
+    if (t.lifts && !inRange) treenSeeksLift(t, key, room);
     t.react = inRange ? t.react + dt : 0;        // he takes a moment before he opens fire
     const engaged = inRange && t.react >= TREEN_REACT;
     t.fire = engaged;
@@ -714,7 +778,8 @@ function updateTreens(dt) {
       t.x += t.dir * TREEN_RUN * dt;
     }
     if (t.entering) {
-      if (t.x >= t.x0 && t.x + TREEN_W <= t.x1 + TREEN_W) t.entering = false;   // in, and on his beat
+      // in, and a few cells clear of the wall he came through, before he is one of the room's
+      if (t.x >= t.x0 + TREEN_CLEAR && t.x + TREEN_W <= t.x1 + TREEN_W - TREEN_CLEAR) t.entering = false;
     } else {
       if (t.x <= t.x0) { t.x = t.x0; if (!inRange) t.dir = 1; }
       if (t.x + TREEN_W >= t.x1) { t.x = t.x1 - TREEN_W; if (!inRange) t.dir = -1; }

diff --git a/js/guns.js b/js/guns.js
@@ -47,10 +47,9 @@ function makeGuns(key) {
   const list = (window.ROOMS_SHEET && window.ROOMS_SHEET.guns && window.ROOMS_SHEET.guns[key]) || [];
   return list.map(([type, x, y, w, fill], i) => {
     const id = key + ":" + i;
-    // a floor gun is drawn on the floor course; Dan's feet rest on that course's lower edge, so
-    // its box - the eight rows his hop must clear - sits a row under where it is drawn
+    // a floor gun sits on the floor course, its eight rows the ones Dan's hop must clear
     const floor = type === GUN_FLOOR;
-    return { id, type, x, y, w, h: floor ? 8 : 16, cy: floor ? y + 8 : y, fill, dead: state.deadGuns.has(id) };
+    return { id, type, x, y, w, h: floor ? 8 : 16, cy: y, fill, dead: state.deadGuns.has(id) };
   });
 }
 

diff --git a/tools/make_rooms.py b/tools/make_rooms.py
@@ -6,7 +6,7 @@ a Treen or a message box somewhere in it. Cell by cell, the value most of the
 dumps agree on is the room itself; the sprites and boxes fall away. The parts
 of the mechanism are wiped too (the game lays its own), and a message box
 that every dump shows is rebuilt from the band's pattern. The cleaned screens
-go back to data/emu, and their play areas (columns 1-30, rows 1-18: 240 by
+go back to data/emu, and their play areas (columns 1-30, rows 0-17: 240 by
 144, what the game's view shows) are packed into assets/rooms.png with an
 index in js/rooms_sheet.js.
 
@@ -229,7 +229,7 @@ def main():
             gone = erase_sprites(tiles, attr, masks)
             if gone: print(f"room {n}: {gone} figure(s) wiped by shape", file=sys.stderr)
         save(os.path.join(args.screens, f"room_{n}.scr"), tiles, attr)
-        im = Image.fromarray(rgb(tiles, attr, 1, 19, 1, 31))
+        im = Image.fromarray(rgb(tiles, attr, 0, 18, 1, 31))
         x, y = (i % per_row) * 240, (i // per_row) * 144
         sheet.paste(im, (x, y))
         index[str(n)] = [x, y]
@@ -256,11 +256,11 @@ def main():
                     pa = a[r, side]
                     fill = PALETTE[(pa >> 3) & 7]
                     if pa & 0x40: fill = fill.replace("d8", "ff")
-                out.append([kind, (c - 1) * 8, (r - 1) * 8, w * 8, fill])
+                out.append([kind, (c - 1) * 8, r * 8, w * 8, fill])
             guns[str(n)] = out
             save(path, t, a)
             x0, y0 = index[str(n)]
-            sheet.paste(Image.fromarray(rgb(t, a, 1, 19, 1, 31)), (x0, y0))
+            sheet.paste(Image.fromarray(rgb(t, a, 0, 18, 1, 31)), (x0, y0))
         print(f"{sum(len(v) for v in guns.values())} guns in {len(guns)} rooms")
     # lift arrows: the cell scrolls a pixel every four frames; any phase of it, up or down, marks one
     arrows = {}
@@ -278,7 +278,7 @@ def main():
                 for r in range(3, 17):
                     for c in range(1, 31):
                         d = phases.get(t[r, c].tobytes())
-                        if d: seen[(r, c)] = [(c - 1) * 8, (r - 1) * 8, d, int(a[r, c])]   # and the cell's colours
+                        if d: seen[(r, c)] = [(c - 1) * 8, r * 8, d, int(a[r, c])]   # and the cell's colours
             if seen: arrows[str(n)] = list(seen.values())
         print(f"{sum(len(v) for v in arrows.values())} lift arrows in {len(arrows)} rooms")
         arrow_bits = [int(v) for v in base]
@@ -309,7 +309,7 @@ def main():
             for (r, c) in cells: to[r, c] = tp[r, c]; ao[r, c] = ap_[r, c]
             save(path, to, ao)
             x0, y0 = index[str(n)]
-            sheet.paste(Image.fromarray(rgb(to, ao, 1, 19, 1, 31)), (x0, y0))
+            sheet.paste(Image.fromarray(rgb(to, ao, 0, 18, 1, 31)), (x0, y0))
         else:
             ref = slab.get(side)
             if not ref: print(f"door {room} {side}: no reference slab yet", file=sys.stderr); continue
@@ -331,7 +331,7 @@ def main():
         for k, d in doors.items():
             r0, r1, c0, c1 = d["box"]; im = d["img"]
             extra.paste(im, (x, 0))
-            door_index[k] = [x, sheet.height, im.width, im.height, (c0 - 1) * 8, (r0 - 1) * 8]   # in the sheet; where in the view
+            door_index[k] = [x, sheet.height, im.width, im.height, (c0 - 1) * 8, r0 * 8]   # in the sheet; where in the view
             x += im.width + 4
         full = Image.new("RGB", (sheet.width, sheet.height + 64), (0, 0, 0)); full.paste(sheet, (0, 0)); full.paste(extra, (0, sheet.height))
         sheet = full

diff --git a/README.md b/README.md
@@ -86,7 +86,8 @@ many times by the emulator surveys, and again with Dan stepped and jumped
 about in it; `tools/make_rooms.py` takes, cell by cell, the value most dumps
 agree on, so Dan, the Treens and the message boxes fall away, wipes the parts
 of the mechanism, writes the cleaned screens back to `data/emu` and packs the
-play areas into `assets/rooms.png`. The game lays its own things over them:
+play areas (the original's rows 0-17, so its floor courses meet the level's)
+into `assets/rooms.png`. The game lays its own things over them:
 the lifts' marks, the doors, the parts, the pickups, the mechanism's lights.
 `--door` cuts the door slabs out of shut-and-open pairs of screens,
 `--objects` takes the original's gun tables, lifts the floor guns off the
@@ -155,7 +156,10 @@ space, enter or escape is pressed.
   seeded hash of the room; on the screen he lands on and in the hologram room
   there are none to start with. A few seconds after he arrives, while fewer
   than two are about, one runs in from beyond the edge away from Dan at the
-  original's pace, closes to a few cells and pauses before firing. A guard
+  original's pace, comes well clear of the wall, closes to a few cells and
+  pauses before firing. Some of them take the grav-lifts: to Dan's floor when
+  he is on another floor of the same room, and after him when he rides out
+  while they are giving chase, arriving behind him in the next room. A guard
   shot stands with his arms up for a moment, then is gone, for fifty points;
   both moments sound the original's beeper bursts. The fourth sector is unguarded. Pickups are
   procedural, from a seeded hash of each room. The five parts of the mechanism lie where the original keeps them
